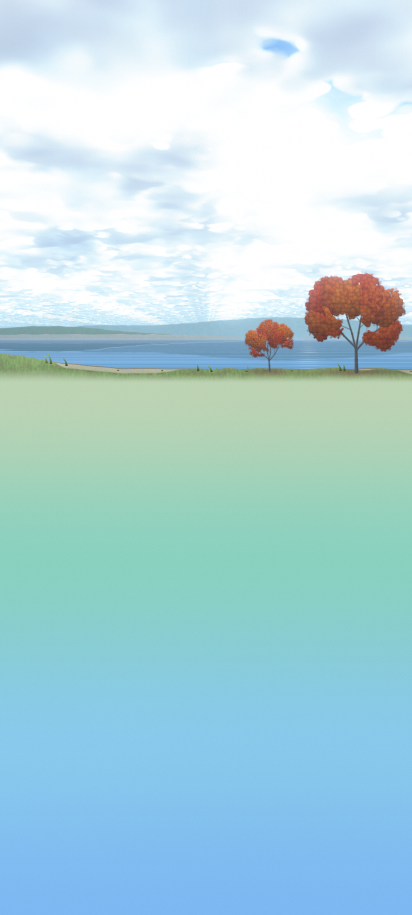
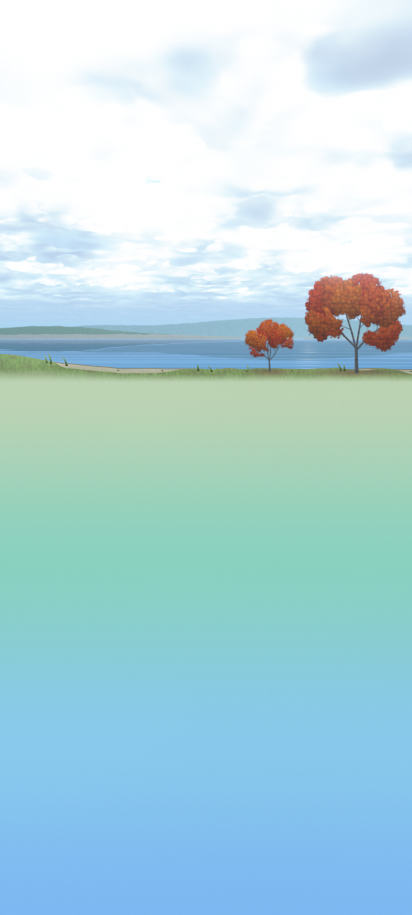
chore(design): skies re-baked with the new cloud sheet (after SH1)
- On-device sky cache to sky-v5: phones drop skies baked with the old
  sheet. The PC bakes (local, gitignored) are re-made and match live.
- The Calendar's past day (md1/nov4.png) re-rendered and re-measured:
  glass 3.28, sky text 4.75; the boards' inlined values follow.

diff --git a/design-prototype/scene-gl.js b/design-prototype/scene-gl.js
@@ -1140,7 +1140,7 @@ void main(){
   // G3: 5.5, 20.25 and 20.5 hold the twilight dip of the key light (TWI), which a blend of the neighbours misses (20:30 read 32.7 dB from 20 + 21).
   const KEYFRAMES = [5, 5.5, 5.75, 6.5, 7.5, 9, 11, 13, 15, 16.5, 17.75, 19, 20, 20.25, 20.5, 21];
   const bracketHours = (h, list = KEYFRAMES) => { const L = list.slice().sort((a, b) => a - b), i = L.findIndex(x => x > ((h % 24) + 24) % 24); return [L[i <= 0 ? L.length - 1 : i - 1], L[i < 0 ? 0 : i]]; };
-  const SKY_CACHE = 'sky-v4';                                             // Cache Storage for layers baked on this device. Bump it whenever the sky's look changes: bakes from an older shader are then dropped (v2: 3.14 clouds, v3: 3.15 horizon and land, v4: G3 night and twilight light)
+  const SKY_CACHE = 'sky-v5';                                             // Cache Storage for layers baked on this device. Bump it whenever the sky's look changes: bakes from an older shader are then dropped (v2: 3.14 clouds, v3: 3.15 horizon and land, v4: G3 night and twilight light, v5: SH1 low cloud sheet)
   const cached = async url => { if (G.caches) { const r = await (await G.caches.open(SKY_CACHE)).match(new URL(url, G.location.href).href); if (r) return r; } return fetch(url); };
   const regimeOf = r => r == null ? 'firstRun' : r >= 80 ? 'fair' : r >= 65 ? 'partly' : r >= 50 ? 'stratocumulus' : 'stratus';
   const DRIFT_ROOM = 72, DRIFT_V = .8;                                   // baked near clouds: CSS px of extra layer to drift into, CSS px per second (clouds ~10 km away at 10 m/s)

diff --git a/design-prototype/md2-board.html b/design-prototype/md2-board.html
@@ -35,7 +35,7 @@
 <script>
 const HD = window.HEALTH_DATA, days = HD.days, MT = HD.METRICS;
 // md1/measure.json (g2.js, floor 3.0), inlined so the board also opens as a file
-const G = { day1510: { tint: '#FFFFFF', a: .22, navA: .3, cardS: 3.75, sky: 5.55, hero: 7.04 }, nov4: { tint: '#FFFFFF', a: .22, navA: .3, cardS: 3.29, sky: 5.07, hero: 10.45 } };
+const G = { day1510: { tint: '#FFFFFF', a: .22, navA: .3, cardS: 3.75, sky: 5.55, hero: 7.04 }, nov4: { tint: '#FFFFFF', a: .22, navA: .3, cardS: 3.28, sky: 4.75, hero: 13.29 } };
 const P = NIGHT ? { primary: '#FFFFFF', secondary: '#C9D7EA' } : { primary: '#0E2A43', secondary: '#2E4A62' }, GOOD = TONE[0], BAD = TONE[1], BLUE = '#0B5FA5';   // night colours: TR2
 if (ALT && !NIGHT) G.day1510 = { mode: 'light', tint: '#FFFFFF', a: ALT_G.a, navA: ALT_G.navA, cardS: ALT_G.cardS, sky: ALT_G.sky, hero: ALT_G.hero };
 if (NIGHT) G.day1510 = { mode: 'dark', tint: NIGHT_G.tint, a: .22, navA: .3, cardS: NIGHT_G.cardS, sky: NIGHT_G.sky, hero: NIGHT_G.hero };

diff --git a/design-prototype/md3-board.html b/design-prototype/md3-board.html
@@ -35,7 +35,7 @@
 <script>
 const HD = window.HEALTH_DATA, days = HD.days, MT = HD.METRICS;
 // md1/measure.json (g2.js, floor 3.0), inlined so the board also opens as a file
-const G = { day1510: { tint: '#FFFFFF', a: .22, navA: .3, cardS: 3.75, sky: 5.55, hero: 7.04 }, nov4: { tint: '#FFFFFF', a: .22, navA: .3, cardS: 3.29, sky: 5.07, hero: 10.45 } };
+const G = { day1510: { tint: '#FFFFFF', a: .22, navA: .3, cardS: 3.75, sky: 5.55, hero: 7.04 }, nov4: { tint: '#FFFFFF', a: .22, navA: .3, cardS: 3.28, sky: 4.75, hero: 13.29 } };
 const P = NIGHT ? { primary: '#FFFFFF', secondary: '#C9D7EA' } : { primary: '#0E2A43', secondary: '#2E4A62' }, GOOD = TONE[0], BAD = TONE[1], BLUE = '#0B5FA5';   // night colours: TR2
 if (ALT && !NIGHT) G.day1510 = { mode: 'light', tint: '#FFFFFF', a: ALT_G.a, navA: ALT_G.navA, cardS: ALT_G.cardS, sky: ALT_G.sky, hero: ALT_G.hero };
 if (NIGHT) G.day1510 = { mode: 'dark', tint: NIGHT_G.tint, a: .22, navA: .3, cardS: NIGHT_G.cardS, sky: NIGHT_G.sky, hero: NIGHT_G.hero };

diff --git a/design-prototype/md4-board.html b/design-prototype/md4-board.html
@@ -35,7 +35,7 @@
 <script>
 const HD = window.HEALTH_DATA, days = HD.days, MT = HD.METRICS;
 // md1/measure.json (g2.js, floor 3.0), inlined so the board also opens as a file
-const G = { day1510: { tint: '#FFFFFF', a: .22, navA: .3, cardS: 3.75, sky: 5.55, hero: 7.04 }, nov4: { tint: '#FFFFFF', a: .22, navA: .3, cardS: 3.29, sky: 5.07, hero: 10.45 } };
+const G = { day1510: { tint: '#FFFFFF', a: .22, navA: .3, cardS: 3.75, sky: 5.55, hero: 7.04 }, nov4: { tint: '#FFFFFF', a: .22, navA: .3, cardS: 3.28, sky: 4.75, hero: 13.29 } };
 const P = NIGHT ? { primary: '#FFFFFF', secondary: '#C9D7EA' } : { primary: '#0E2A43', secondary: '#2E4A62' }, GOOD = TONE[0], BAD = TONE[1], BLUE = '#0B5FA5';   // night colours: TR2
 if (ALT && !NIGHT) G.day1510 = { mode: 'light', tint: '#FFFFFF', a: ALT_G.a, navA: ALT_G.navA, cardS: ALT_G.cardS, sky: ALT_G.sky, hero: ALT_G.hero };
 if (NIGHT) G.day1510 = { mode: 'dark', tint: NIGHT_G.tint, a: .22, navA: .3, cardS: NIGHT_G.cardS, sky: NIGHT_G.sky, hero: NIGHT_G.hero };

diff --git a/design-prototype/md1-board.html b/design-prototype/md1-board.html
@@ -35,7 +35,7 @@
 <script>
 const HD = window.HEALTH_DATA, days = HD.days, MT = HD.METRICS;
 // md1/measure.json (g2.js, floor 3.0), inlined so the board also opens as a file
-const G = { day1510: { tint: '#FFFFFF', a: .22, navA: .3, cardS: 3.75, sky: 5.55, hero: 7.04 }, nov4: { tint: '#FFFFFF', a: .22, navA: .3, cardS: 3.29, sky: 5.07, hero: 10.45 } };
+const G = { day1510: { tint: '#FFFFFF', a: .22, navA: .3, cardS: 3.75, sky: 5.55, hero: 7.04 }, nov4: { tint: '#FFFFFF', a: .22, navA: .3, cardS: 3.28, sky: 4.75, hero: 13.29 } };
 const P = { primary: '#0E2A43', secondary: '#2E4A62' }, GOOD = '#17703C', BAD = '#B23A2E', BLUE = '#0B5FA5';
 const rgba = (h, a) => `rgba(${[1, 3, 5].map(i => parseInt(h.slice(i, i + 2), 16)).join(',')},${a})`;
 const glass = g => `background:${rgba(g.tint, g.a)};-webkit-backdrop-filter:blur(22px) saturate(1.6);backdrop-filter:blur(22px) saturate(1.6);box-shadow:0 1px 1px rgba(14,42,67,.05), 0 10px 28px rgba(14,42,67,.10)`;

diff --git a/docs/design-exploration/LOG.md b/docs/design-exploration/LOG.md
@@ -1209,3 +1209,5 @@ STOP: waiting for review of the mapping (thresholds, the look of each day) and t
 **Board:** `?poor=1` on Today, Coach and Readiness. STOP.
 
 **Approved (2026-11-23):** the reworked sheet (SH1) and the poor day as built (PD1: Today, Coach through the day, Readiness; dusk at 37% with a dark blue button on grey skies).
+
+**Re-baked (2026-11-23, after SH1):** `bakeAll.js` re-baked the day's 17 keyframes (16 fair hours and stratocumulus 13:00, seed 20780 as before) in 78 s; the baked stratocumulus plays back like the live render (`out/bk-cmp.png`). The on-device cache goes to `sky-v5`, so phones drop skies they baked with the old sheet. `md1/nov4.png` (the Calendar's past day) re-rendered with MD1's screen areas (the fair sky reproduces 3.75 / 5.50 / 7.04): past-day glass 3.28 (was 3.29), sky text 4.75 (was 5.07), number 13.29; the boards' inlined values follow.
